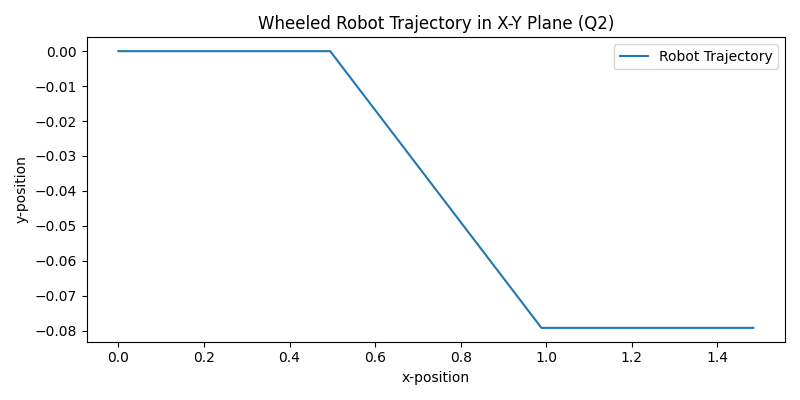
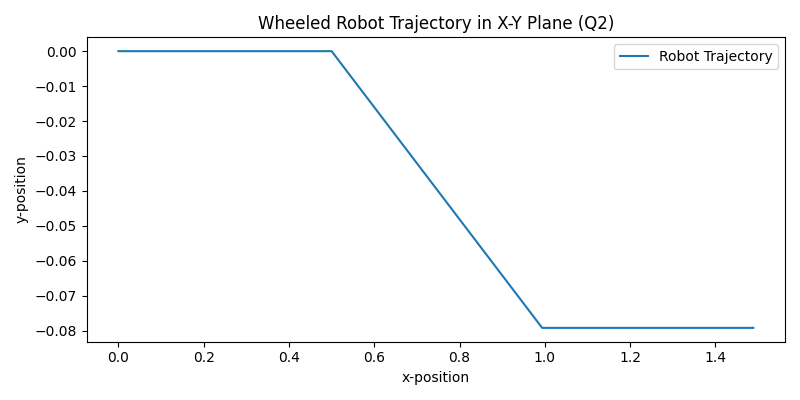
Finished variable timestep features

diff --git a/run.py b/run.py
@@ -17,7 +17,6 @@ DATA_PATH = os.path.join(__file__, "../data")
 #
 # --- Simulation Functions ---
 #
-
 def integrate_rk4(f, x0, t0, tf, h, u_traj, tspan=None, tsync='const'):
     """
     RK4 integration and simulator
@@ -46,7 +45,7 @@ def integrate_rk4(f, x0, t0, tf, h, u_traj, tspan=None, tsync='const'):
     prev_control = u_traj
     for (i, t), u in zip(enumerate(tspan), u_traj):
         if tsync == 'const':
-            # Control signals are not commanded at a fixed timestep.
+            # Control signals are not logged at a fixed timestep.
             # We can simulate at a fixed timestep, but send commands at proper times. In this implementation
             # the previous command is held onto, and used if it is still commanded at the current t.
             if (not i == 0) and (prev_time + h < t):
@@ -109,7 +108,7 @@ def q2():
     tf = 5.0
     h = 0.01
     u_traj = gen_u_traj_test(h) # Generate control trajectory
-    tspan, x_traj = integrate_rk4(dynamics, x0, t0, tf, h, u_traj)
+    tspan, x_traj = integrate_rk4(dynamics, x0, t0, tf, h, u_traj, tsync='const')
 
     _ = plot_wheeled_robot([(x_traj, 'Robot Trajectory')], "Wheeled Robot Trajectory in X-Y Plane (Q2)", "q2.png")
     print("Done\n")
@@ -128,7 +127,7 @@ def q3():
     tf = u_df['time'].iloc[-1]
     h = 1/67.0  # Odometry logged at 67 Hz
     u_traj = np.array(u_df.iloc[:, 1:])
-    tspan, x_traj = integrate_rk4(dynamics, x0, t0, tf, h, u_traj, tspan=u_df['time'])
+    tspan, x_traj = integrate_rk4(dynamics, x0, t0, tf, h, u_traj, tspan=u_df['time'], tsync='var')
 
     # Plotting
     trajectories = [
